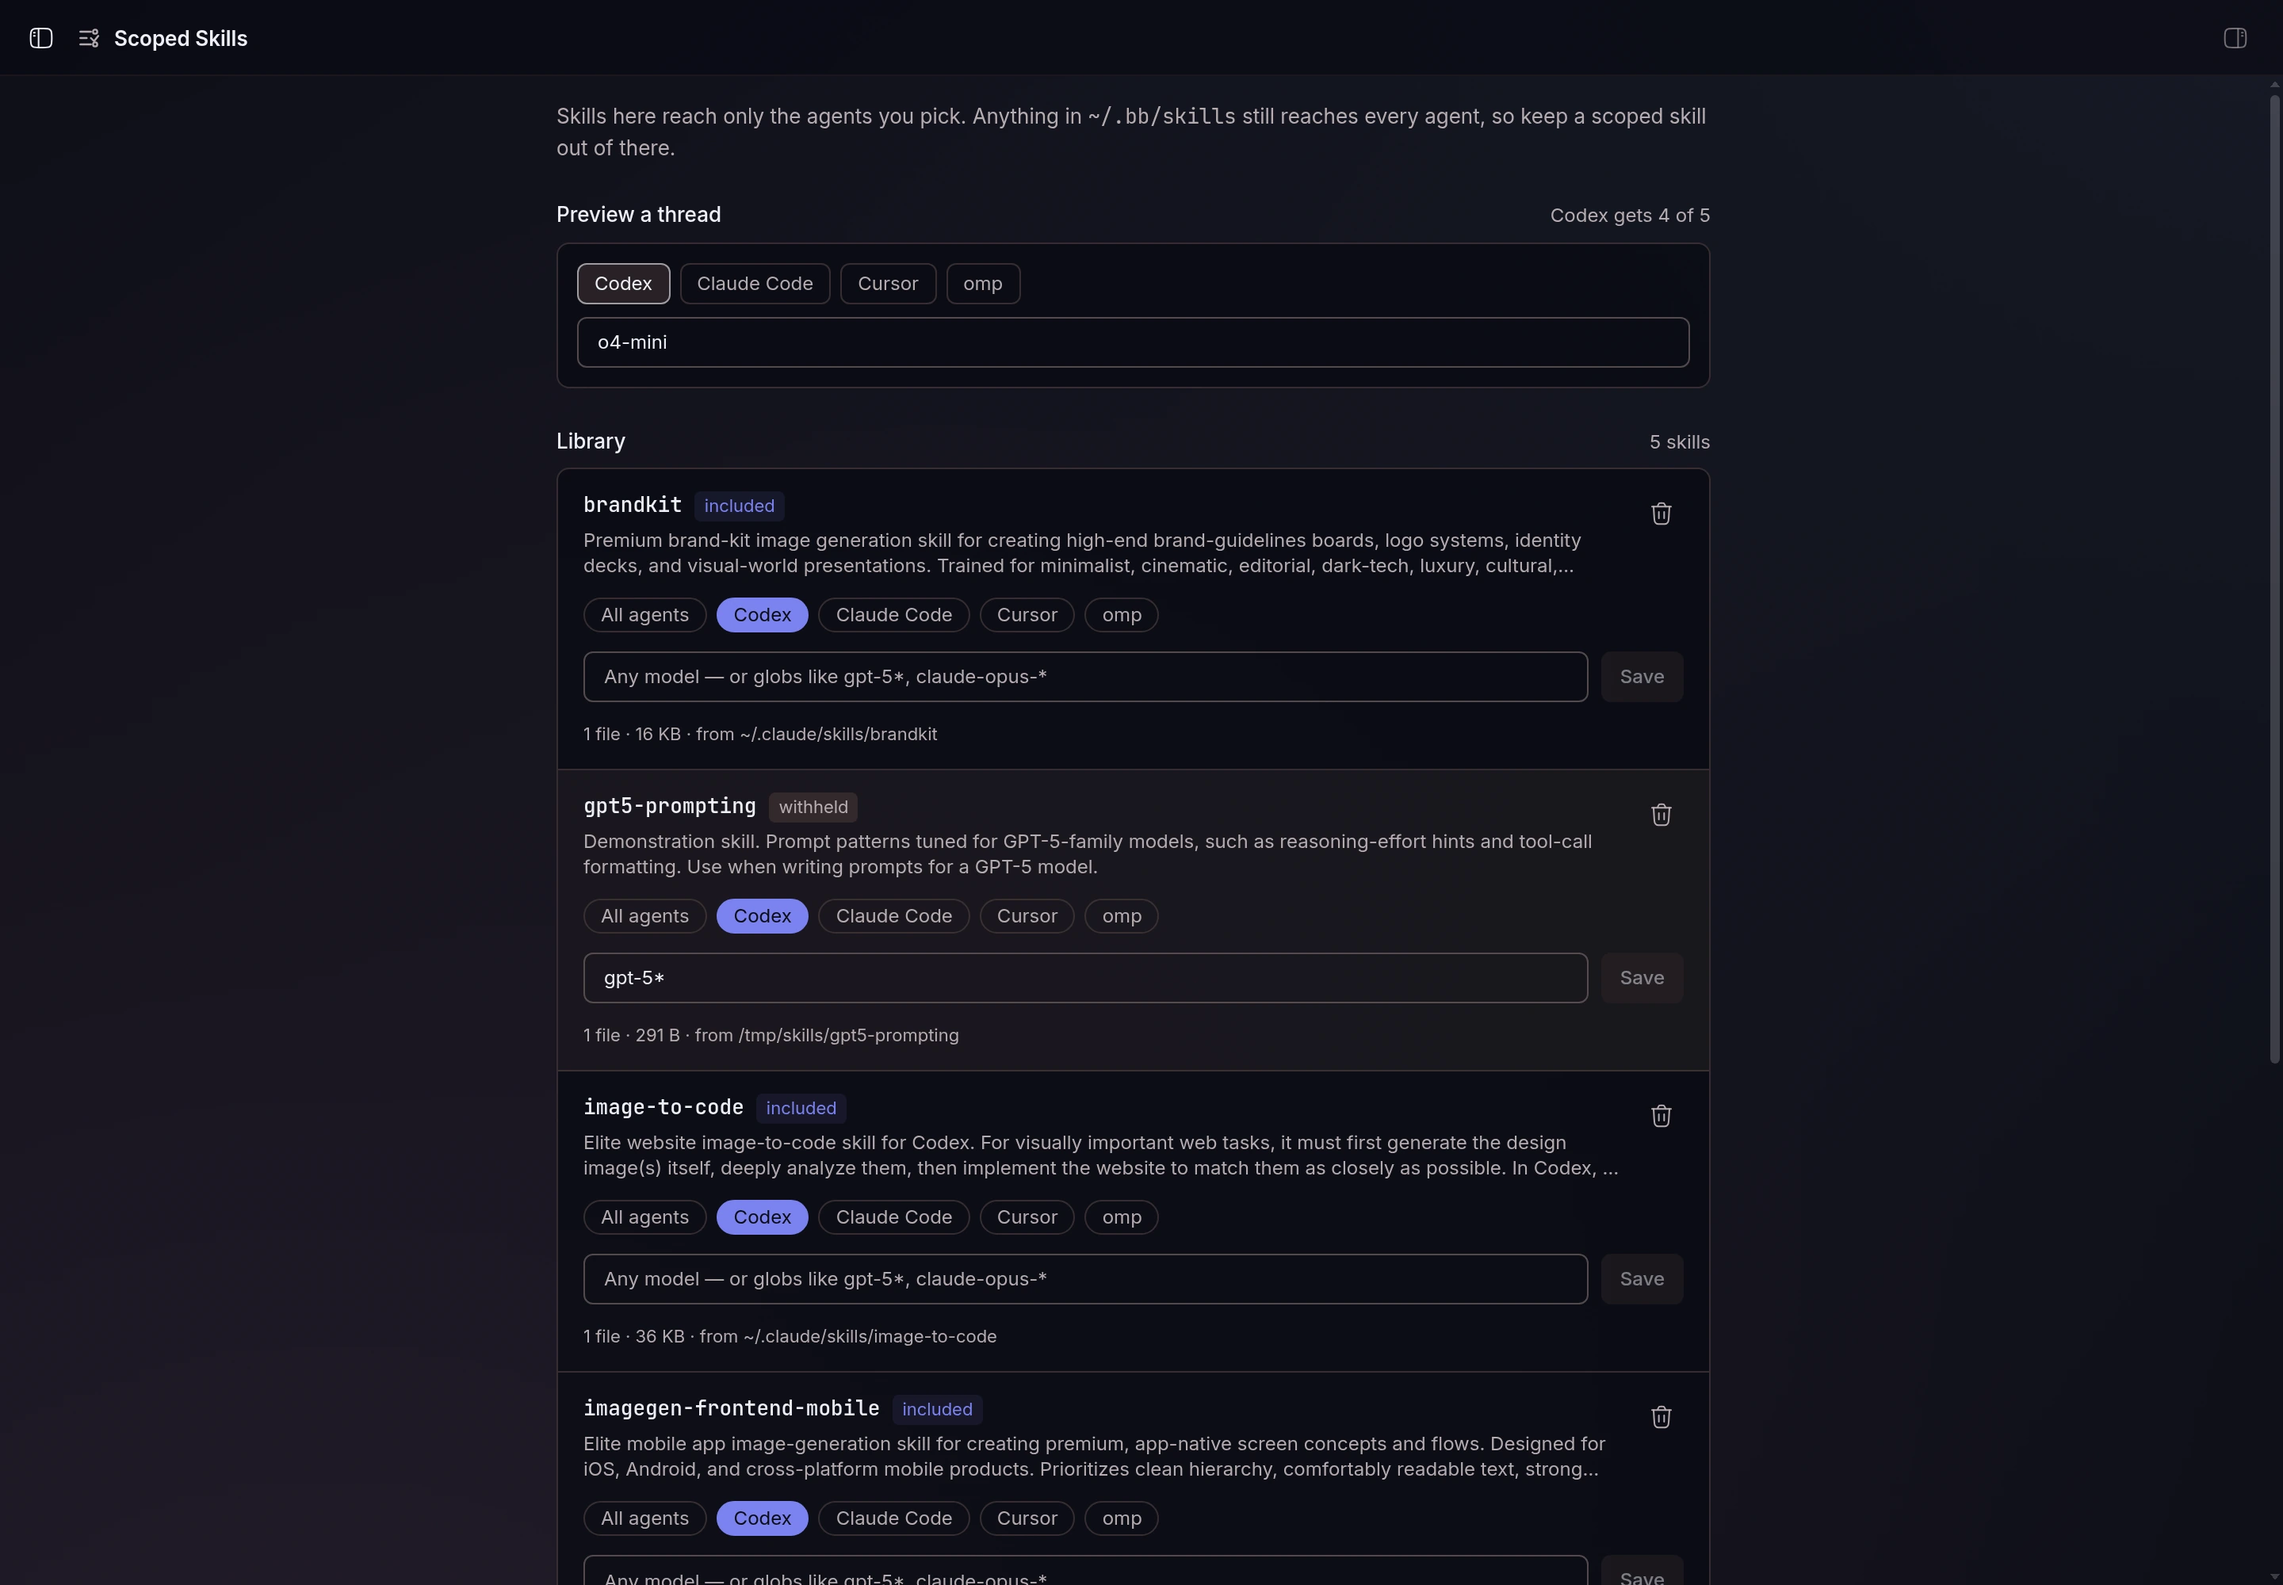
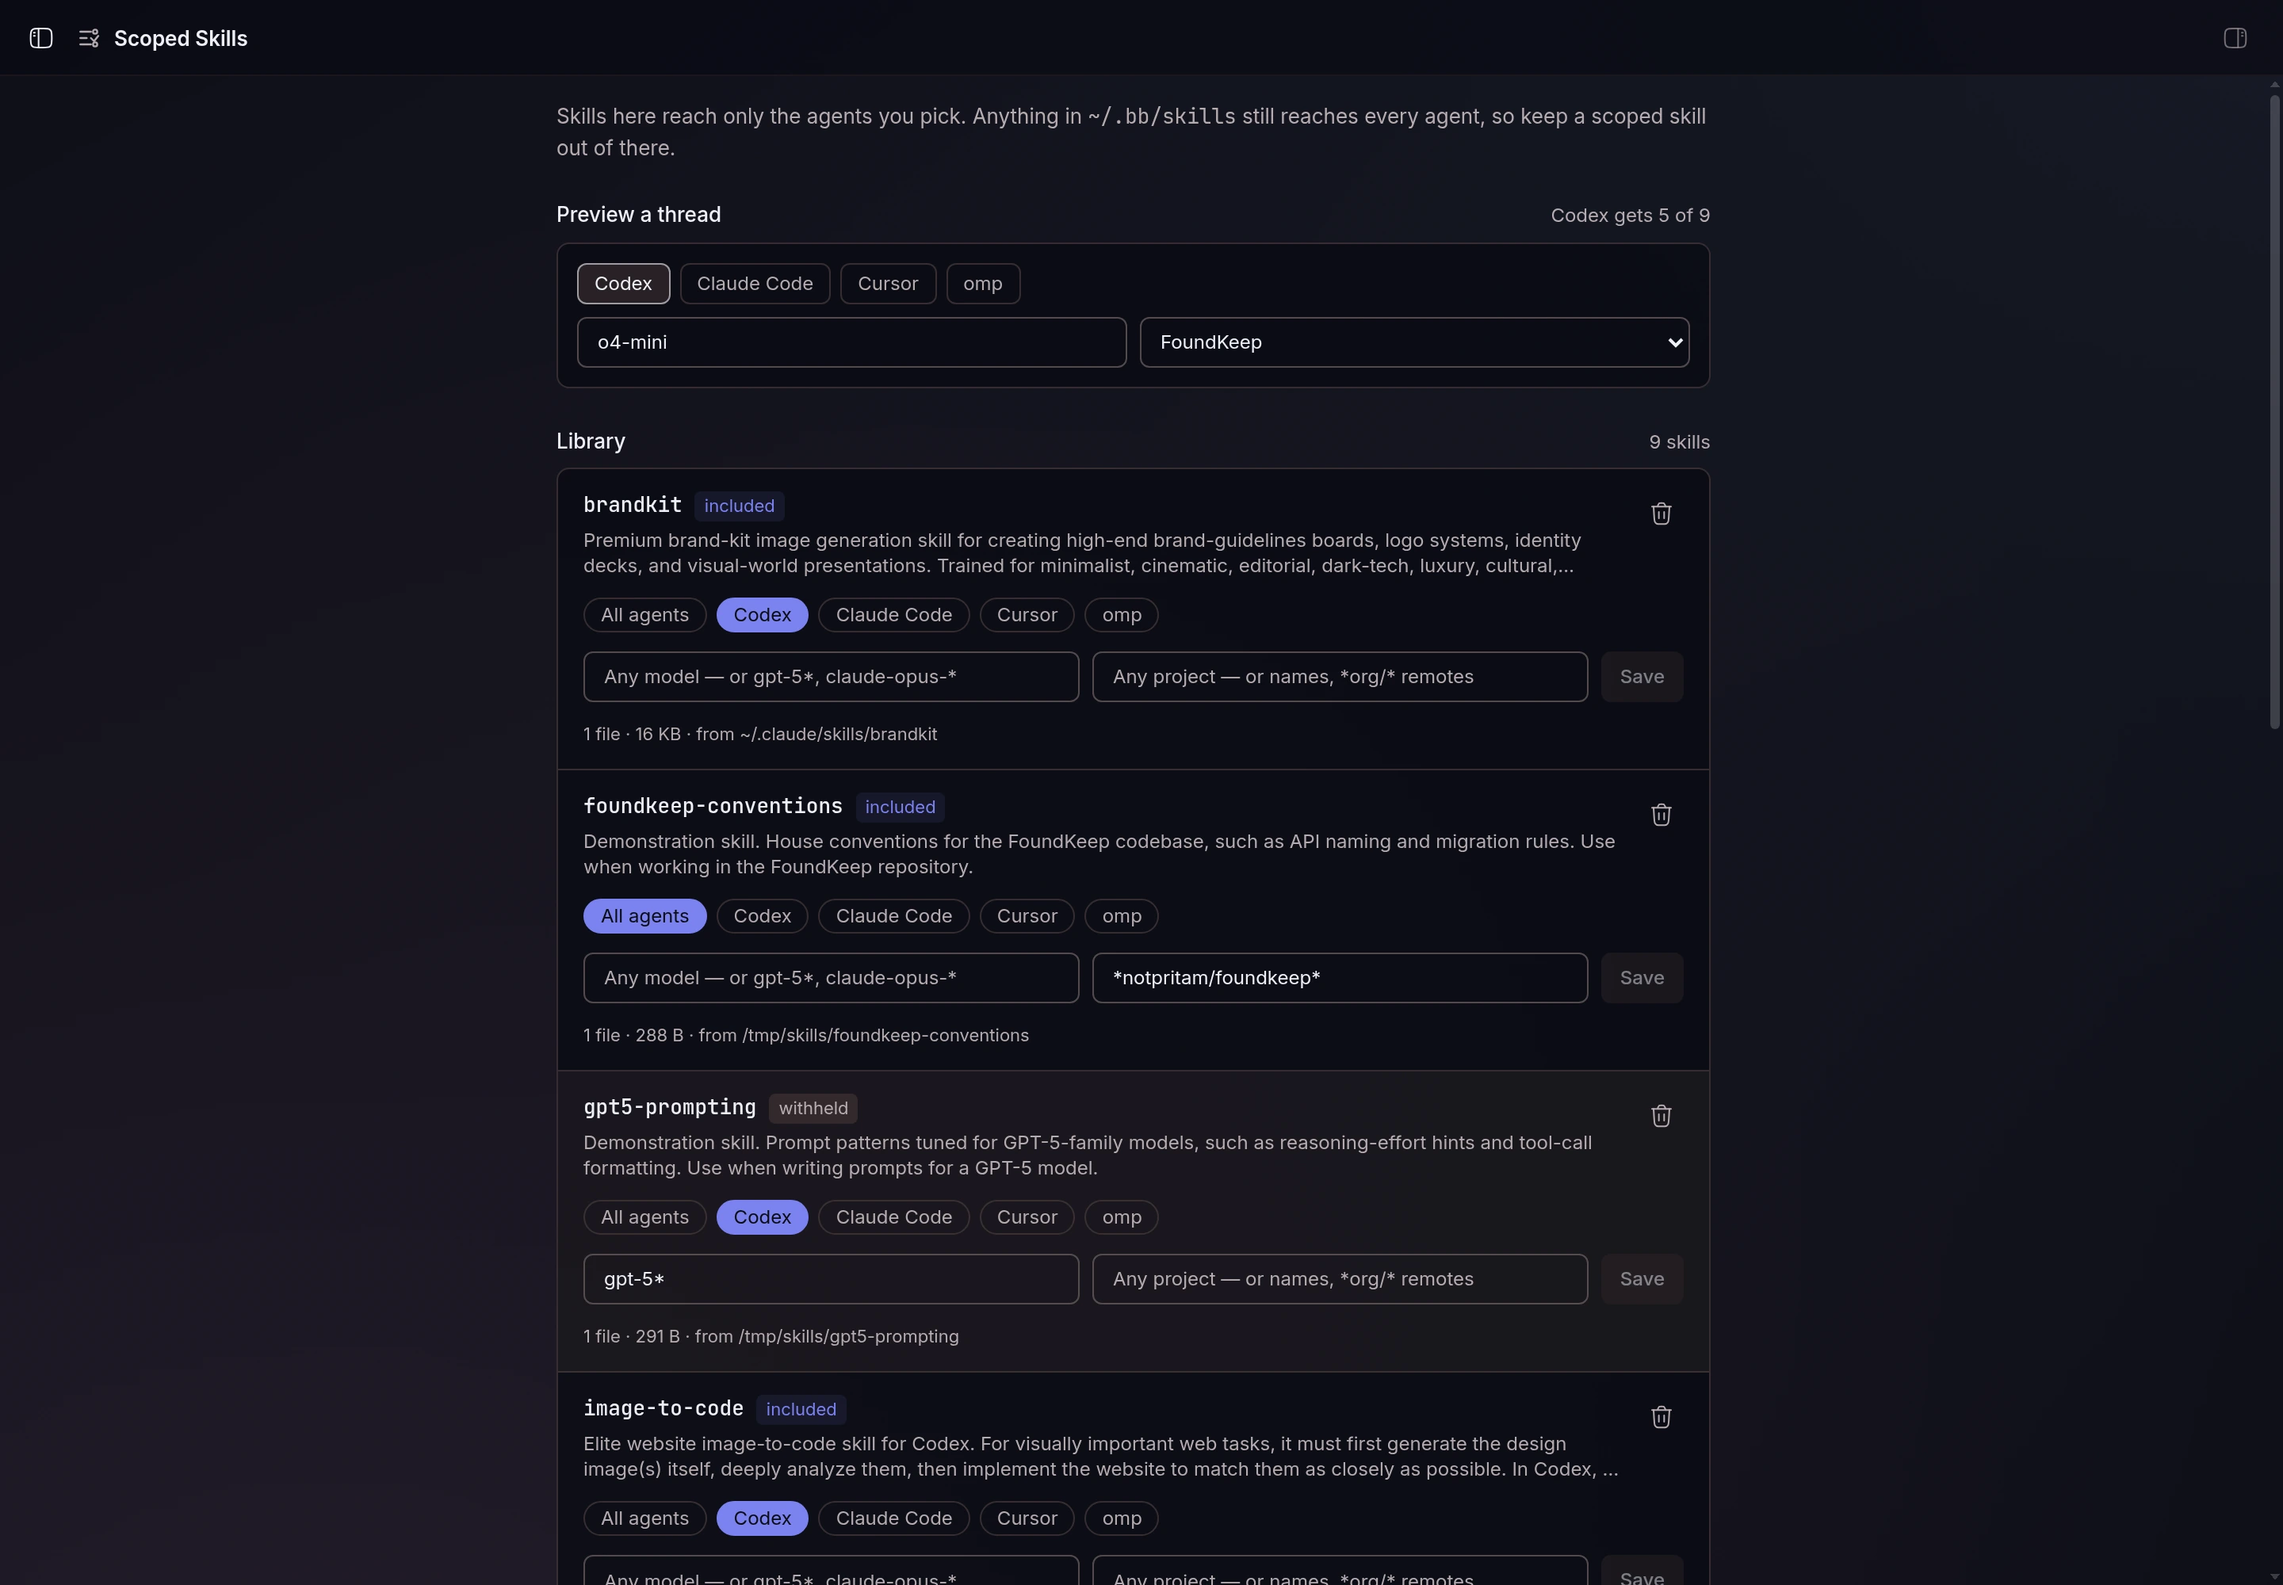
docs: v0.2.0 screenshots (agent, model and project scopes)

diff --git a/README.md b/README.md
@@ -9,7 +9,7 @@ mislead another. Scoped Skills keeps a library in which every skill carries a
 scope, and gives a thread only the skills whose scope matches its agent and
 model.
 
-![Scoped Skills previewing a Codex thread: image skills included, a GPT-5-only demo skill withheld](docs/screenshots/library-codex.webp)
+![Scoped Skills previewing a Codex thread on o4-mini in FoundKeep: an agent-scoped and a project-scoped skill included, a GPT-5-only demo skill withheld](docs/screenshots/library-codex.webp)
 
 ## Install
 
